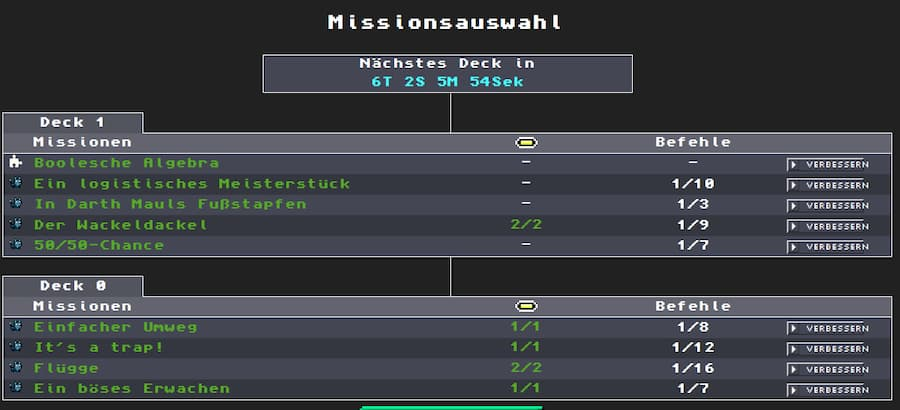
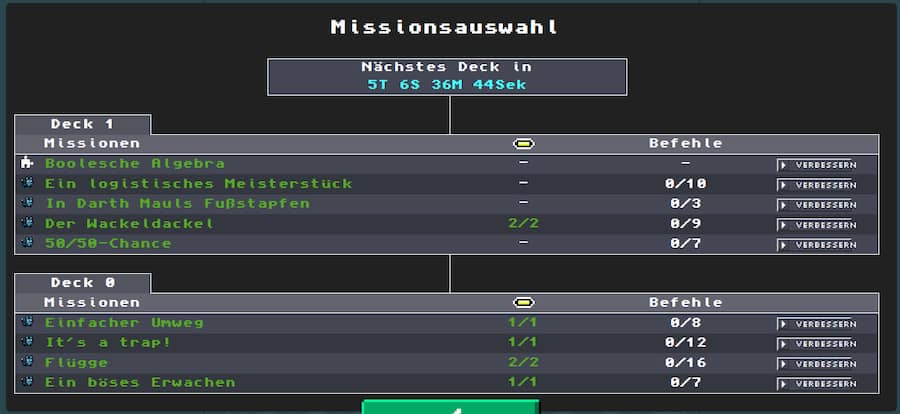
:recycle: Inline all function calls

Changed region(s): [[0.0, 0.0, 1.0, 1.0], [0.56, 0.439, 0.5911, 0.4976]]

diff --git a/Batch 2/Level5.java b/Batch 2/Level5.java
@@ -3,7 +3,7 @@
  * Name: 50/50 Chance
  * Batch: 2
  * Level: 5
- * Instructions used: 1
+ * Instructions used: 0
  * 
  * Copyright (c) 2020 Max Baumann
  *
@@ -41,27 +41,24 @@ public class MyDogbot extends Dogbot {
         String s = "turnLeft,read,turnRight,move,,move";
         for (String instr : s.split(",")) {
             instr = (!instr.equals("")) ? instr : (r.equals("R") ? "turnRight" : "turnLeft");
-            String res = mdoRequest(instr, "", client, WORLD_URL);
+            String res = "";
+            try {
+                final okhttp3.Request request = new okhttp3.Request.Builder().url(WORLD_URL + instr)
+                        .post(okhttp3.RequestBody.create("", okhttp3.MediaType.get("text/plain; charset=utf-8")))
+                        .build();
+                final okhttp3.Response response = client.newCall(request).execute();
+                final String responseBody = (response.body() != null) ? response.body().string() : "";
+                if (response.code() == 410) {
+                    Thread.currentThread().stop();
+                }
+                res = responseBody;
+            } catch (java.io.IOException e) {
+                e.printStackTrace();
+                res = "";
+            }
             if (!res.equals("")) {
                 r = res;
             }
-        }
-    }
-
-    private static String mdoRequest(final String target, final String body, final okhttp3.OkHttpClient client,
-            final String WORLD_URL) {
-        try {
-            final okhttp3.Request request = new okhttp3.Request.Builder().url(WORLD_URL + target)
-                    .post(okhttp3.RequestBody.create(body, okhttp3.MediaType.get("text/plain; charset=utf-8"))).build();
-            final okhttp3.Response response = client.newCall(request).execute();
-            final String responseBody = (response.body() != null) ? response.body().string() : "";
-            if (response.code() == 410) {
-                Thread.currentThread().stop();
-            }
-            return responseBody;
-        } catch (java.io.IOException e) {
-            e.printStackTrace();
-            return "";
         }
     }
 }

diff --git a/Batch 2/Level4.java b/Batch 2/Level4.java
@@ -3,7 +3,7 @@
  * Name: Der Wackeldackel
  * Batch: 2
  * Level: 4
- * Instructions used: 1
+ * Instructions used: 0
  * 
  * Copyright (c) 2020 Max Baumann
  *
@@ -70,7 +70,20 @@ public class MyDogbot extends Dogbot {
                 }
 
                 if (instr != null) {
-                    r = mdoRequest(instr, "", client, WORLD_URL);
+                    try {
+                        final okhttp3.Request request = new okhttp3.Request.Builder().url(WORLD_URL + instr).post(
+                                okhttp3.RequestBody.create("", okhttp3.MediaType.get("text/plain; charset=utf-8")))
+                                .build();
+                        final okhttp3.Response response = client.newCall(request).execute();
+                        final String responseBody = (response.body() != null) ? response.body().string() : "";
+                        if (response.code() == 410) {
+                            Thread.currentThread().stop();
+                        }
+                        r = responseBody;
+                    } catch (java.io.IOException e) {
+                        e.printStackTrace();
+                        r = "";
+                    }
                 }
 
             }
@@ -78,20 +91,4 @@ public class MyDogbot extends Dogbot {
         }
     }
 
-    private static String mdoRequest(final String target, final String body, final okhttp3.OkHttpClient client,
-            final String WORLD_URL) {
-        try {
-            final okhttp3.Request request = new okhttp3.Request.Builder().url(WORLD_URL + target)
-                    .post(okhttp3.RequestBody.create(body, okhttp3.MediaType.get("text/plain; charset=utf-8"))).build();
-            final okhttp3.Response response = client.newCall(request).execute();
-            final String responseBody = (response.body() != null) ? response.body().string() : "";
-            if (response.code() == 410) {
-                Thread.currentThread().stop();
-            }
-            return responseBody;
-        } catch (java.io.IOException e) {
-            e.printStackTrace();
-            return "";
-        }
-    }
 }

diff --git a/Batch 2/Level2.java b/Batch 2/Level2.java
@@ -3,7 +3,7 @@
  * Name: Ein logisches Meisterstück
  * Batch: 2
  * Level: 2
- * Instructions used: 1
+ * Instructions used: 0
  * 
  * Copyright (c) 2020 Max Baumann
  *
@@ -53,27 +53,25 @@ public class MyDogbot extends Dogbot {
             if (instr.equals("write")) {
                 arg = res;
             }
-            String r = mdoRequest(instr, arg, client, WORLD_URL);
+
+            String r = "";
+            try {
+                final okhttp3.Request request = new okhttp3.Request.Builder().url(WORLD_URL + instr)
+                        .post(okhttp3.RequestBody.create(arg, okhttp3.MediaType.get("text/plain; charset=utf-8")))
+                        .build();
+                final okhttp3.Response response = client.newCall(request).execute();
+                final String responseBody = (response.body() != null) ? response.body().string() : "";
+                if (response.code() == 410) {
+                    Thread.currentThread().stop();
+                }
+                r = responseBody;
+            } catch (java.io.IOException e) {
+                e.printStackTrace();
+                r = "";
+            }
             if (!r.equals("")) {
                 res = r;
             }
-        }
-    }
-
-    private static String mdoRequest(final String target, final String body, final okhttp3.OkHttpClient client,
-            final String WORLD_URL) {
-        try {
-            final okhttp3.Request request = new okhttp3.Request.Builder().url(WORLD_URL + target)
-                    .post(okhttp3.RequestBody.create(body, okhttp3.MediaType.get("text/plain; charset=utf-8"))).build();
-            final okhttp3.Response response = client.newCall(request).execute();
-            final String responseBody = (response.body() != null) ? response.body().string() : "";
-            if (response.code() == 410) {
-                Thread.currentThread().stop();
-            }
-            return responseBody;
-        } catch (java.io.IOException e) {
-            e.printStackTrace();
-            return "";
         }
     }
 }

diff --git a/Batch 2/Level3.java b/Batch 2/Level3.java
@@ -3,7 +3,7 @@
  * Name: In Darth Mauls Fußstapfen
  * Batch: 2
  * Level: 3
- * Instructions used: 1
+ * Instructions used: 0
  * 
  * Copyright (c) 2020 Max Baumann
  *
@@ -46,25 +46,22 @@ public class MyDogbot extends Dogbot {
                 } else {
                     instr = "rest";
                 }
-                r = mdoRequest(instr, "", client, WORLD_URL);
+                try {
+                    final okhttp3.Request request = new okhttp3.Request.Builder().url(WORLD_URL + instr)
+                            .post(okhttp3.RequestBody.create("", okhttp3.MediaType.get("text/plain; charset=utf-8")))
+                            .build();
+                    final okhttp3.Response response = client.newCall(request).execute();
+                    final String responseBody = (response.body() != null) ? response.body().string() : "";
+                    if (response.code() == 410) {
+                        Thread.currentThread().stop();
+                    }
+                    r = responseBody;
+                } catch (java.io.IOException e) {
+                    e.printStackTrace();
+                    r = "";
+                }
             }
         }
     }
 
-    private static String mdoRequest(final String target, final String body, final okhttp3.OkHttpClient client,
-            final String WORLD_URL) {
-        try {
-            final okhttp3.Request request = new okhttp3.Request.Builder().url(WORLD_URL + target)
-                    .post(okhttp3.RequestBody.create(body, okhttp3.MediaType.get("text/plain; charset=utf-8"))).build();
-            final okhttp3.Response response = client.newCall(request).execute();
-            final String responseBody = (response.body() != null) ? response.body().string() : "";
-            if (response.code() == 410) {
-                Thread.currentThread().stop();
-            }
-            return responseBody;
-        } catch (java.io.IOException e) {
-            e.printStackTrace();
-            return "";
-        }
-    }
 }

diff --git a/Batch 1/Level4.java b/Batch 1/Level4.java
@@ -3,7 +3,7 @@
  * Name: Ein böses Erwachen
  * Batch: 1
  * Level: 4
- * Instructions used: 1
+ * Instructions used: 0
  * 
  * Copyright (c) 2020 Max Baumann
  *
@@ -56,24 +56,18 @@ public class MyDogbot extends Dogbot {
         s += "move,";
 
         for (String instr : s.split(",")) {
-            mdoRequest(instr, "", client, WORLD_URL);
-        }
-    }
-
-    private static String mdoRequest(final String target, final String body, final okhttp3.OkHttpClient client,
-            final String WORLD_URL) {
-        try {
-            final okhttp3.Request request = new okhttp3.Request.Builder().url(WORLD_URL + target)
-                    .post(okhttp3.RequestBody.create(body, okhttp3.MediaType.get("text/plain; charset=utf-8"))).build();
-            final okhttp3.Response response = client.newCall(request).execute();
-            final String responseBody = (response.body() != null) ? response.body().string() : "";
-            if (response.code() == 410) {
-                Thread.currentThread().stop();
+            try {
+                final okhttp3.Request request = new okhttp3.Request.Builder().url(WORLD_URL + instr)
+                        .post(okhttp3.RequestBody.create("", okhttp3.MediaType.get("text/plain; charset=utf-8")))
+                        .build();
+                final okhttp3.Response response = client.newCall(request).execute();
+                final String responseBody = (response.body() != null) ? response.body().string() : "";
+                if (response.code() == 410) {
+                    Thread.currentThread().stop();
+                }
+            } catch (java.io.IOException e) {
+                e.printStackTrace();
             }
-            return responseBody;
-        } catch (java.io.IOException e) {
-            e.printStackTrace();
-            return "";
         }
     }
 }

diff --git a/Batch 1/Level1.java b/Batch 1/Level1.java
@@ -3,7 +3,7 @@
  * Name: Einfacher Umweg
  * Batch: 1
  * Level: 1
- * Instructions used: 1
+ * Instructions used: 0
  * 
  * Copyright (c) 2020 Max Baumann
  *
@@ -49,24 +49,19 @@ public class MyDogbot extends Dogbot {
         s += "move,";
 
         for (String instr : s.split(",")) {
-            mdoRequest(instr, "", client, WORLD_URL);
-        }
-    }
-
-    private static String mdoRequest(final String target, final String body, final okhttp3.OkHttpClient client,
-            final String WORLD_URL) {
-        try {
-            final okhttp3.Request request = new okhttp3.Request.Builder().url(WORLD_URL + target)
-                    .post(okhttp3.RequestBody.create(body, okhttp3.MediaType.get("text/plain; charset=utf-8"))).build();
-            final okhttp3.Response response = client.newCall(request).execute();
-            final String responseBody = (response.body() != null) ? response.body().string() : "";
-            if (response.code() == 410) {
-                Thread.currentThread().stop();
+            try {
+                final okhttp3.Request request = new okhttp3.Request.Builder().url(WORLD_URL + instr)
+                        .post(okhttp3.RequestBody.create("", okhttp3.MediaType.get("text/plain; charset=utf-8")))
+                        .build();
+                final okhttp3.Response response = client.newCall(request).execute();
+                final String responseBody = (response.body() != null) ? response.body().string() : "";
+                if (response.code() == 410) {
+                    Thread.currentThread().stop();
+                }
+            } catch (java.io.IOException e) {
+                e.printStackTrace();
             }
-            return responseBody;
-        } catch (java.io.IOException e) {
-            e.printStackTrace();
-            return "";
         }
+
     }
 }

diff --git a/Batch 1/Level2.java b/Batch 1/Level2.java
@@ -3,7 +3,7 @@
  * Name: It's a trap
  * Batch: 1
  * Level: 2
- * Instructions used: 1
+ * Instructions used: 0
  * 
  * Copyright (c) 2020 Max Baumann
  *
@@ -57,24 +57,18 @@ public class MyDogbot extends Dogbot {
         s += "move,";
 
         for (String instr : s.split(",")) {
-            mdoRequest(instr, "", client, WORLD_URL);
-        }
-    }
-
-    private static String mdoRequest(final String target, final String body, final okhttp3.OkHttpClient client,
-            final String WORLD_URL) {
-        try {
-            final okhttp3.Request request = new okhttp3.Request.Builder().url(WORLD_URL + target)
-                    .post(okhttp3.RequestBody.create(body, okhttp3.MediaType.get("text/plain; charset=utf-8"))).build();
-            final okhttp3.Response response = client.newCall(request).execute();
-            final String responseBody = (response.body() != null) ? response.body().string() : "";
-            if (response.code() == 410) {
-                Thread.currentThread().stop();
+            try {
+                final okhttp3.Request request = new okhttp3.Request.Builder().url(WORLD_URL + instr)
+                        .post(okhttp3.RequestBody.create("", okhttp3.MediaType.get("text/plain; charset=utf-8")))
+                        .build();
+                final okhttp3.Response response = client.newCall(request).execute();
+                final String responseBody = (response.body() != null) ? response.body().string() : "";
+                if (response.code() == 410) {
+                    Thread.currentThread().stop();
+                }
+            } catch (java.io.IOException e) {
+                e.printStackTrace();
             }
-            return responseBody;
-        } catch (java.io.IOException e) {
-            e.printStackTrace();
-            return "";
         }
     }
 }

diff --git a/Batch 1/Level3.java b/Batch 1/Level3.java
@@ -3,7 +3,7 @@
  * Name: Flügge
  * Batch: 1
  * Level: 3
- * Instructions used: 1
+ * Instructions used: 0
  * 
  * Copyright (c) 2020 Max Baumann
  *
@@ -64,24 +64,19 @@ public class MyDogbot extends Dogbot {
         s += "move,";
 
         for (String instr : s.split(",")) {
-            mdoRequest(instr, "", client, WORLD_URL);
-        }
-    }
-
-    private static String mdoRequest(final String target, final String body, final okhttp3.OkHttpClient client,
-            final String WORLD_URL) {
-        try {
-            final okhttp3.Request request = new okhttp3.Request.Builder().url(WORLD_URL + target)
-                    .post(okhttp3.RequestBody.create(body, okhttp3.MediaType.get("text/plain; charset=utf-8"))).build();
-            final okhttp3.Response response = client.newCall(request).execute();
-            final String responseBody = (response.body() != null) ? response.body().string() : "";
-            if (response.code() == 410) {
-                Thread.currentThread().stop();
+            try {
+                final okhttp3.Request request = new okhttp3.Request.Builder().url(WORLD_URL + instr)
+                        .post(okhttp3.RequestBody.create("", okhttp3.MediaType.get("text/plain; charset=utf-8")))
+                        .build();
+                final okhttp3.Response response = client.newCall(request).execute();
+                final String responseBody = (response.body() != null) ? response.body().string() : "";
+                if (response.code() == 410) {
+                    Thread.currentThread().stop();
+                }
+            } catch (java.io.IOException e) {
+                e.printStackTrace();
             }
-            return responseBody;
-        } catch (java.io.IOException e) {
-            e.printStackTrace();
-            return "";
         }
+
     }
 }
